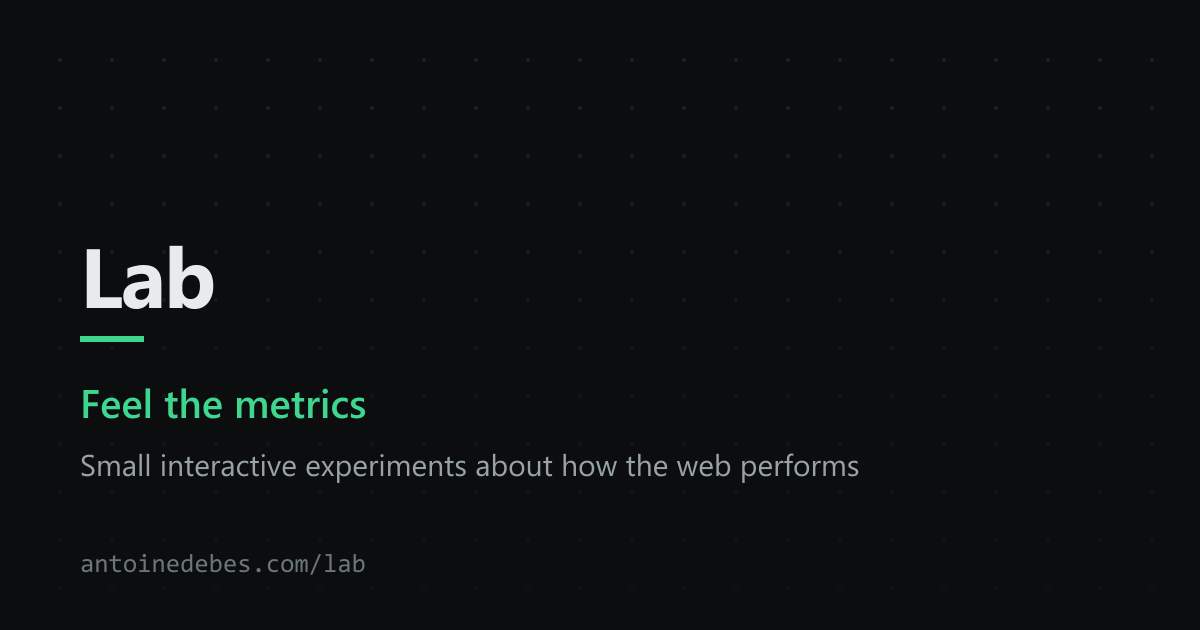
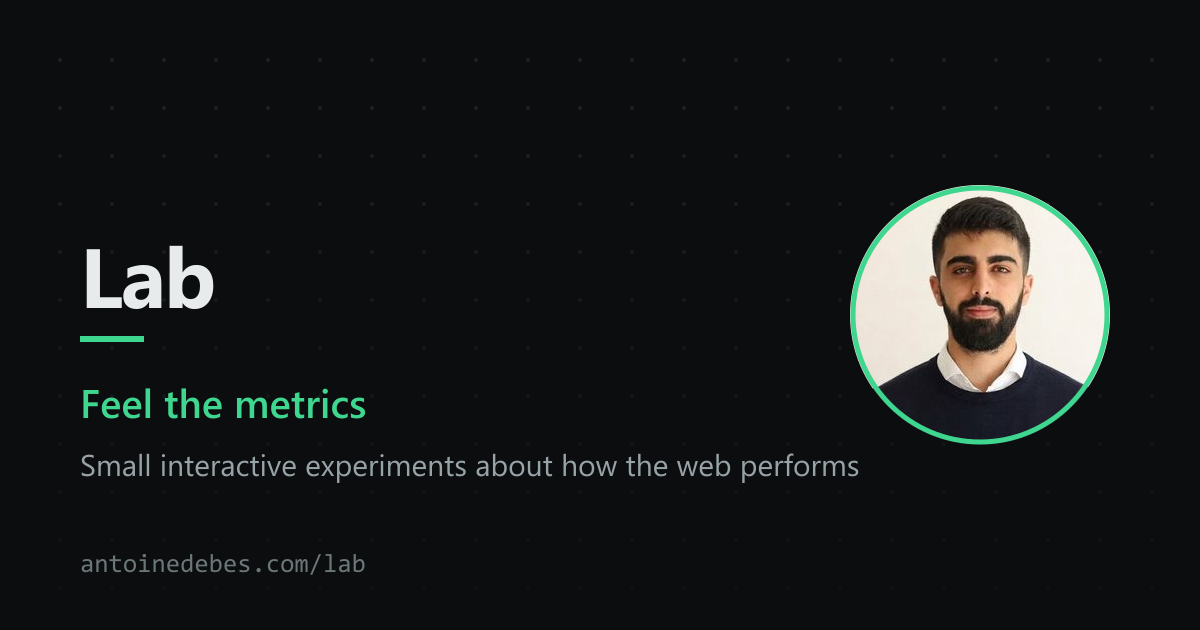
Use the new headshot everywhere; sharpen search entity signals
Image: assets/profile-source.jpg (624x624) is now the single source for
every likeness on the site. scripts/icons.mjs derives the sidebar portrait
(profile.webp, 4.5 kB), a 512px copy for structured data, and the whole
favicon set as a circular crop on the brand ground with an accent ring
(dropped below 64px, where the ring costs more face than it adds). The
share cards now carry a circular portrait beside the type. Old
new-profile-pic.webp (200x217) removed; no references remain.

Search: the site already ranks #2 for "Antoine Debes", under LinkedIn —
but several other people share the name (an art director in Lille, a trail
runner), so Person schema gains homeLocation (Beirut, LB) and a 512px
image to help Google resolve the right entity. Remove the location if you
would rather not publish it; it is already public on the LinkedIn and
GitHub profiles the schema links to.

Changed region(s): [[0.7092, 0.2714, 0.925, 0.7238]]

diff --git a/src/app/layout.tsx b/src/app/layout.tsx
@@ -136,11 +136,22 @@ const personJsonLd = {
   jobTitle: "Principal Software Engineer",
   description,
   url: "https://antoinedebes.com",
-  image: "https://antoinedebes.com/new-profile-pic.webp",
+  image: "https://antoinedebes.com/profile-512.webp",
   worksFor: {
     "@type": "Organization",
     name: "VML",
     url: "https://www.vml.com",
+  },
+  // Several other people share this name in search results (an art director
+  // in Lille, a trail runner). Location + employer are the disambiguators
+  // that let Google resolve this page to the right entity.
+  homeLocation: {
+    "@type": "Place",
+    address: {
+      "@type": "PostalAddress",
+      addressLocality: "Beirut",
+      addressCountry: "LB",
+    },
   },
   knowsAbout: [
     "Web Performance",

diff --git a/src/components/Sidebar.tsx b/src/components/Sidebar.tsx
@@ -10,10 +10,11 @@ export default function Sidebar() {
       <div>
         <div className="flex items-start justify-between">
           <img
-            src="/new-profile-pic.webp"
+            src="/profile.webp"
             alt="Antoine Debes"
-            width={200}
-            height={217}
+            width={256}
+            height={256}
+            fetchPriority="high"
             className="h-16 w-16 rounded-full object-cover ring-2 ring-emerald-500/40 ring-offset-2 ring-offset-gray-50 dark:ring-offset-black"
           />
           <ThemeToggle />
